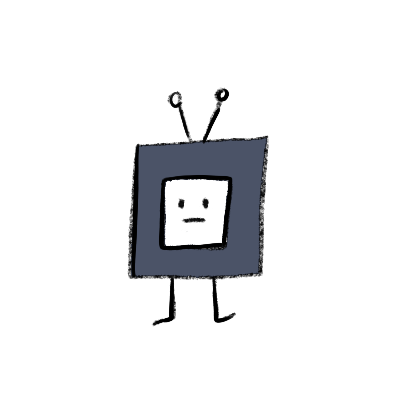
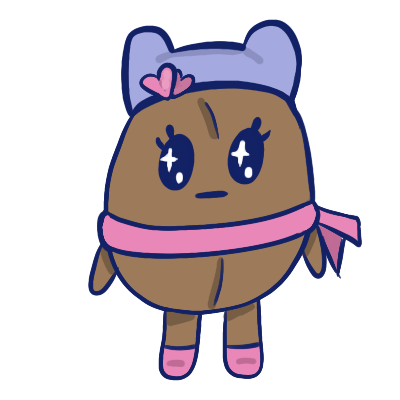
P2: Changed main character and fixed positioning issues

diff --git a/Projects/Project 02/Project 02/js/Tamagotchi.js b/Projects/Project 02/Project 02/js/Tamagotchi.js
@@ -3,8 +3,9 @@ class Tamagotchi {
   constructor(x, y, image, image02, image03) {
     this.x = x;
     this.y = y;
-    this.size = 200;
+    this.size =150;
     this.vx = 2;
+    this.vy = 0;
     this.image = image;
     this.image02 = image02;
     this.image03 = image03;
@@ -21,7 +22,7 @@ class Tamagotchi {
 
   //calls all the functions for the tamagotchi
   update() {
-    this.move();
+
     this.display();
     this.dirtTimer();
     this.removeDirt();
@@ -31,7 +32,9 @@ class Tamagotchi {
 
   //move the tamagotchi back and forth in the rooms
   move() {
+
     this.x = this.x + this.vx;
+    this.y = this.y + this.vy;
 
 
     if (this.x >= this.maxX || this.x <= this.minX) {
@@ -49,19 +52,24 @@ class Tamagotchi {
   pet() {
     this.y = this.y + 10;
     this.position();
+
   }
 
   getInShower() {
-    this.x = this.showerX;
-    this.y = this.showerY;
-    this.vx = 0;
+    if (state === `bathroom`){
+      this.x = this.showerX;
+      this.y = this.showerY;
+    }
+
   }
 
   //reset position to the middle of the room
   position() {
-    this.x = width / 2;
+
     this.y = height / 2 + 150;
   }
+
+
 
 
 

diff --git a/Projects/Project 02/Project 02/js/script.js b/Projects/Project 02/Project 02/js/script.js
@@ -5,6 +5,9 @@ Ines Pioselli
 Tamagotchi Sim
 
 Today:
+- make all 9 drawings
+- finish bed room
+- finish living room
 
 */
 
@@ -517,7 +520,10 @@ function mousePressed() {
   let d5 = dist(mouseX, mouseY, bathroomButton.x, bathroomButton.y);
   if(d5 < bathroomButton.size/2){
     state = `bathroom`;
-    tamagotchiEgg.getInShower();
+    // if(state === `bathroom`){
+    //   tamagotchiEgg.getInShower();
+    // }
+
   }
 
   let d6 = dist(mouseX, mouseY, kitchenButton.x, kitchenButton.y);

diff --git a/Projects/Project 02/Project 02/js/states.js b/Projects/Project 02/Project 02/js/states.js
@@ -153,6 +153,10 @@ function bedRoom() {
   displayBathroomButton();
   displayKitchenButton();
   displayBedroomButton();
+  tamagotchiEgg.move();
+tamagotchiEgg.position();
+
+
 
 
 
@@ -181,6 +185,7 @@ function bathroom() {
   displayBathroomButton();
   displayKitchenButton();
   displayBedroomButton();
+  tamagotchiEgg.getInShower();
 }
 
 function schoolYard(){

diff --git a/Projects/Project 02/Project 02/index.html b/Projects/Project 02/Project 02/index.html
@@ -4,7 +4,7 @@
     <meta charset="utf-8">
     <meta name="viewport" width=device-width, initial-scale=1.0, maximum-scale=1.0, user-scalable=0>
 
-    <title>Tamagotchi</title>
+    <title>Cappugotchi</title>
 
     <!-- CSS stylesheet(s) -->
     <link rel="stylesheet" type="text/css" href="css/style.css" />
